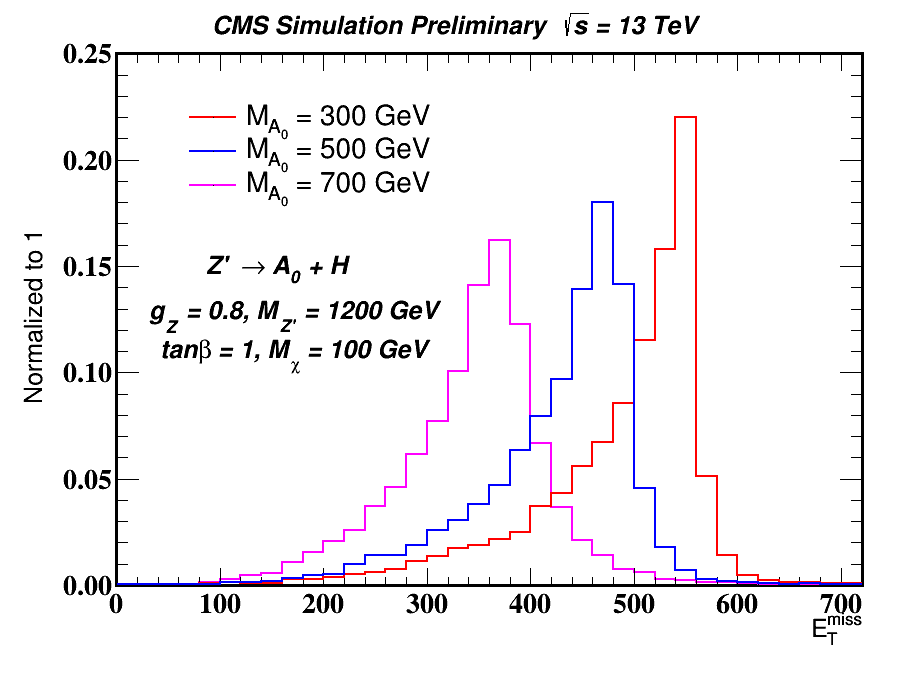
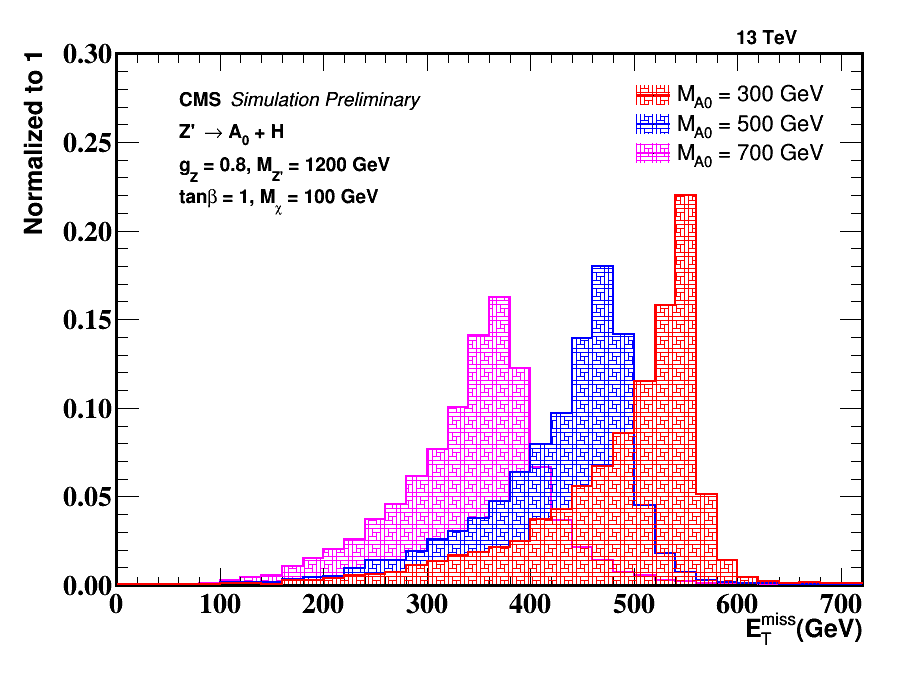
modify the part of plot of the code

diff --git a/gz0_8mzp1200mx100/plot.C b/gz0_8mzp1200mx100/plot.C
@@ -22,7 +22,7 @@ void plot()
     setNCUStyle();
 	
     TCanvas *c1 = new TCanvas("c1","ma0",900,700);
-	TLegend* leg = new TLegend(0.2,0.7,0.5,0.85);
+	TLegend* leg = new TLegend(0.7,0.75,0.92,0.88);
     
     TFile *f_mzp1 = TFile::Open("300MA0.root"); //dm=10
     TFile *f_mzp2 = TFile::Open("500MA0.root"); //old
@@ -69,10 +69,15 @@ void plot()
     //h_A0m5->Sumw2();
     //h_A0m6->Sumw2();
 
+    h_A0m2->SetFillColor(4);
     h_A0m2->SetLineColor(4);
-    //h_A0m2->SetFillStyle(3004);
+    h_A0m2->SetFillStyle(3014);
+    h_A0m1->SetFillColor(2);
     h_A0m1->SetLineColor(2);
+    h_A0m1->SetFillStyle(3014);
+    h_A0m3->SetFillColor(6);
     h_A0m3->SetLineColor(6);
+    h_A0m3->SetFillStyle(3014);
     //h_A0m4->SetLineColor(1);
     //h_A0m5->SetLineColor(5);
     //h_A0m6->SetFillColor(81);
@@ -121,14 +126,14 @@ void plot()
     // h_A0m1->GetYaxis()->SetRange(0,700);
     // h_A0m2->GetYaxis()->SetRange(0,700);
     // h_A0m3->GetYaxis()->SetRange(0,700);
-    h_A0m3->GetYaxis()->SetTitle("Normalized to 1");
+    h_A0m3->GetYaxis()->SetTitle("#bf{Normalized to 1}");
     h_A0m3->GetYaxis()->SetTitleSize(0.04);
-    h_A0m3->GetYaxis()->CenterTitle();
-    h_A0m3->GetXaxis()->SetTitle("E_{T}^{miss}");
+    //h_A0m3->GetYaxis()->CenterTitle();
+    h_A0m3->GetXaxis()->SetTitle("#bf{E}_{T}^{miss}#bf{(GeV)}");
     h_A0m3->GetXaxis()->SetTitleSize(0.04);
     //h_A0m3->GetXaxis()->CenterTitle();
     h_A0m3->SetAxisRange(0,700,"X");
-    h_A0m3->SetAxisRange(0,0.25,"y");
+    h_A0m3->SetAxisRange(0,0.3,"y");
     
     // h_A0m5->GetYaxis()->SetRange(0,700);
     // h_A0m6->GetYaxis()->SetRange(0,700); 
@@ -136,13 +141,13 @@ void plot()
     h_A0m3->Draw("hist");        
     //h_A0m5->Draw("histsame");
     //h_A0m4->Draw("histsame"); 
-    h_A0m1->Draw("histsame");
     h_A0m2->Draw("histsame");
+    h_A0m1->Draw("histsame");
     //h_A0m6->Draw("histsame");
 
-    leg->AddEntry(h_A0m1,"M_{A_{0}} = 300 GeV");
-    leg->AddEntry(h_A0m2,"M_{A_{0}} = 500 GeV");
-    leg->AddEntry(h_A0m3,"M_{A_{0}} = 700 GeV");
+    leg->AddEntry(h_A0m1,"M_{A0} = 300 GeV");
+    leg->AddEntry(h_A0m2,"M_{A0} = 500 GeV");
+    leg->AddEntry(h_A0m3,"M_{A0} = 700 GeV");
     //leg->AddEntry(h_A0m4,"MZ'_600GeV,MA0_700GeV");
     //leg->AddEntry(h_A0m5,"MZ'_600GeV,MA0_800GeV");
     //leg->AddEntry(h_A0m6,"MZ'_1400GeV,DM_100GeV");
@@ -152,15 +157,17 @@ void plot()
 
     c1->Update();
     // Latex
-    TString latexCMSname= "CMS Simulation Preliminary #sqrt{s} = 13 TeV";
+    TString latexCMSname= "13 TeV";
     TString latexCMSname2= "Z' #rightarrow A_{0} + H";
     TString latexCMSname3= "g_{Z} = 0.8, M_{Z'} = 1200 GeV";
     TString latexCMSname4= "tan#beta = 1, M_{#chi} = 100 GeV";
-    TLatex Tl; Tl.SetTextFont(72); Tl.SetTextSize(0.04); 
+    TString latexCMSname5= "CMS #bf{#it{Simulation Preliminary}}";
+    TLatex Tl; Tl.SetTextFont(62); Tl.SetTextSize(0.03); 
     Tl.SetNDC(kTRUE); 
-    Tl.SetTextAlign(22);
-    Tl.DrawLatex(0.51,0.96,latexCMSname);
-    Tl.DrawLatex(0.31,0.6,latexCMSname2);
-    Tl.DrawLatex(0.33, 0.53,latexCMSname3);
-    Tl.DrawLatex(0.33, 0.47, latexCMSname4);
+    Tl.SetTextAlign(12);
+    Tl.DrawLatex(0.82,0.945,latexCMSname);
+    Tl.DrawLatex(0.2,0.8,latexCMSname2);
+    Tl.DrawLatex(0.2, 0.75,latexCMSname3);
+    Tl.DrawLatex(0.2, 0.7, latexCMSname4);
+    Tl.DrawLatex(0.2, 0.85, latexCMSname5);
 }
